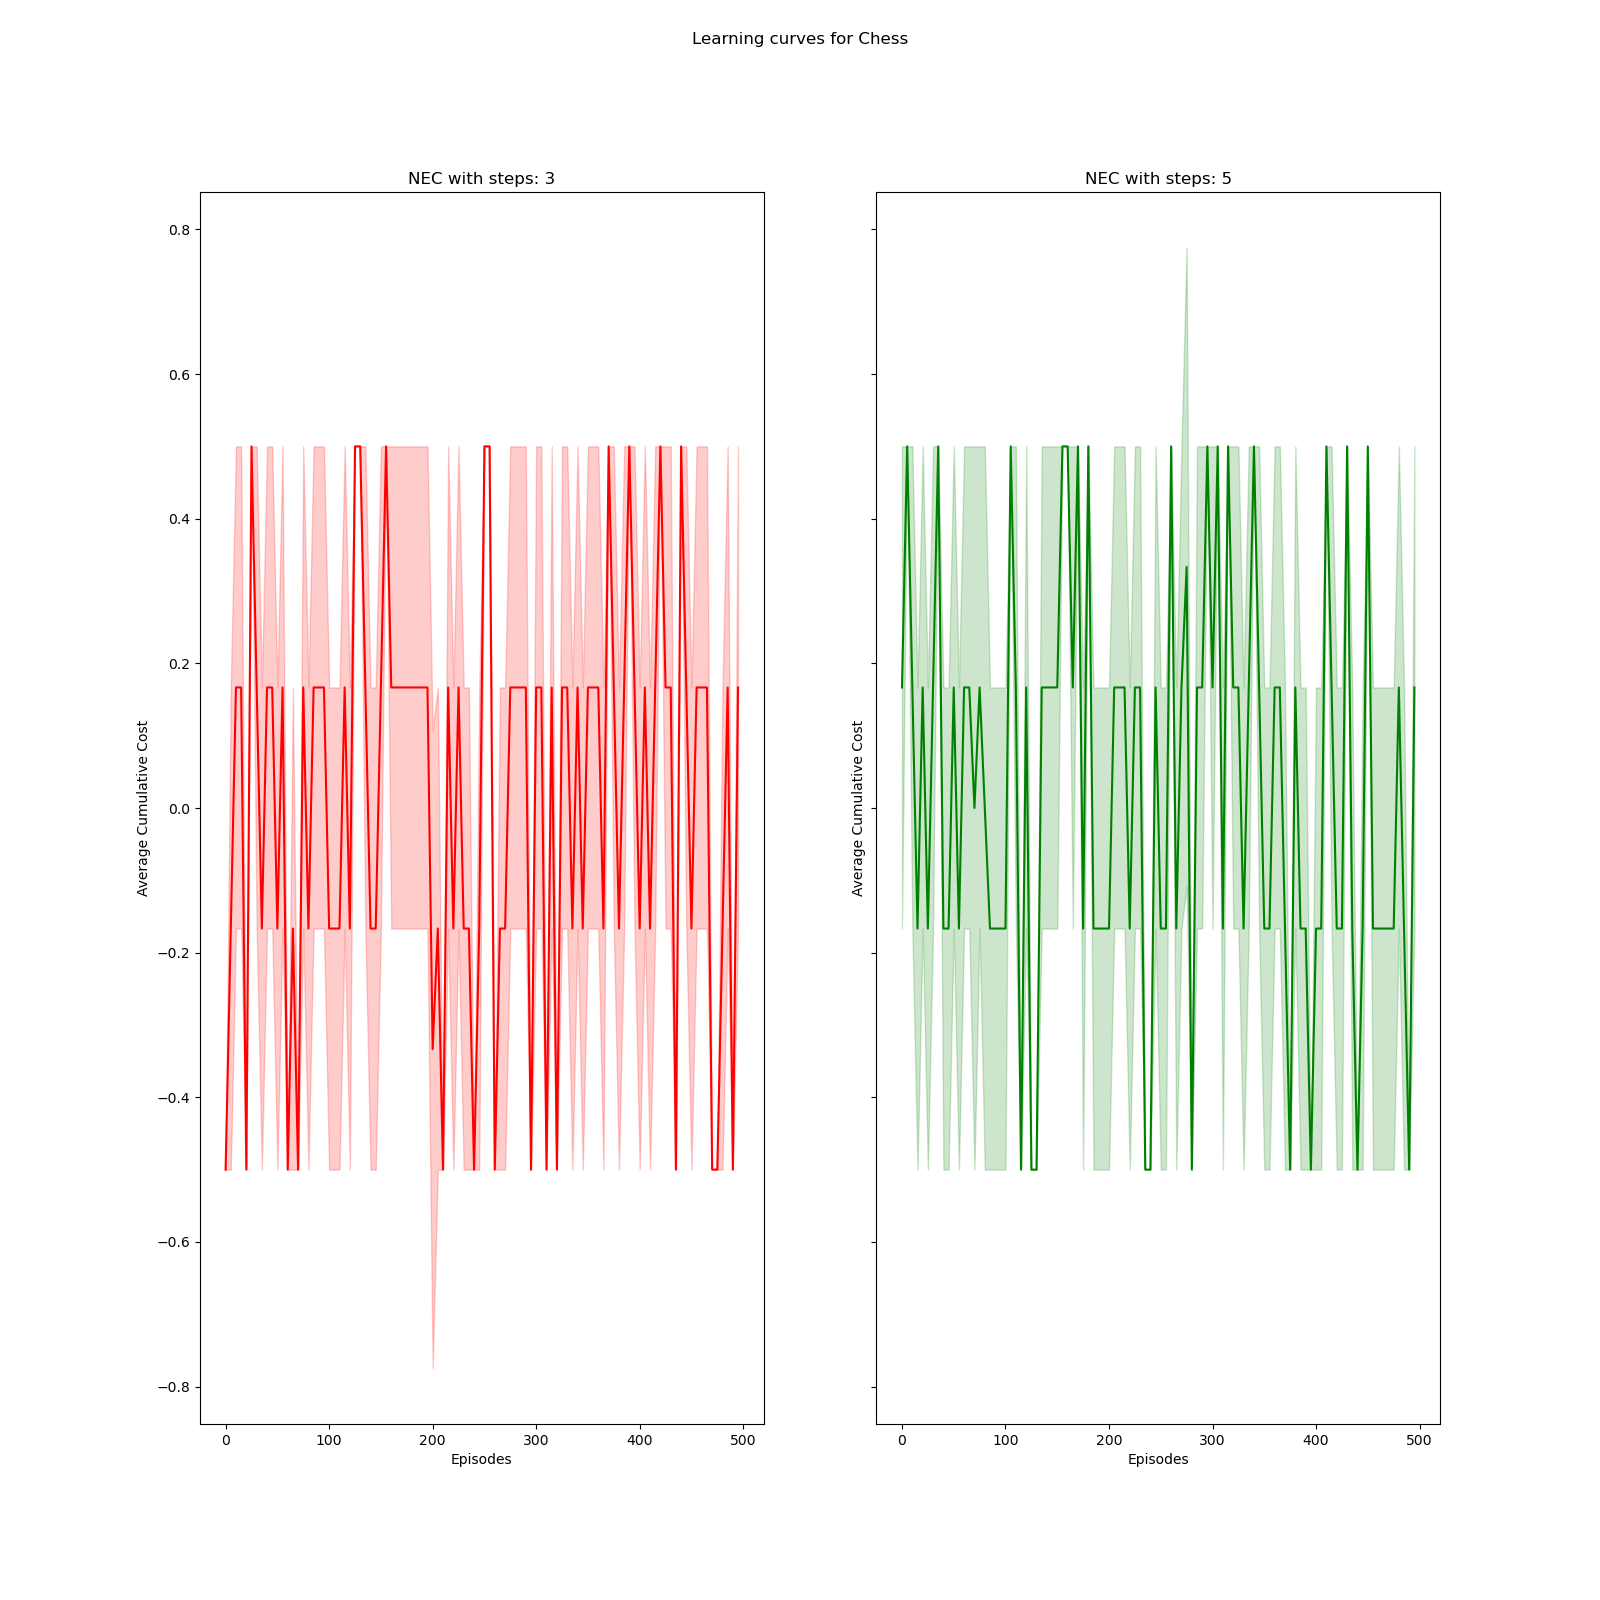
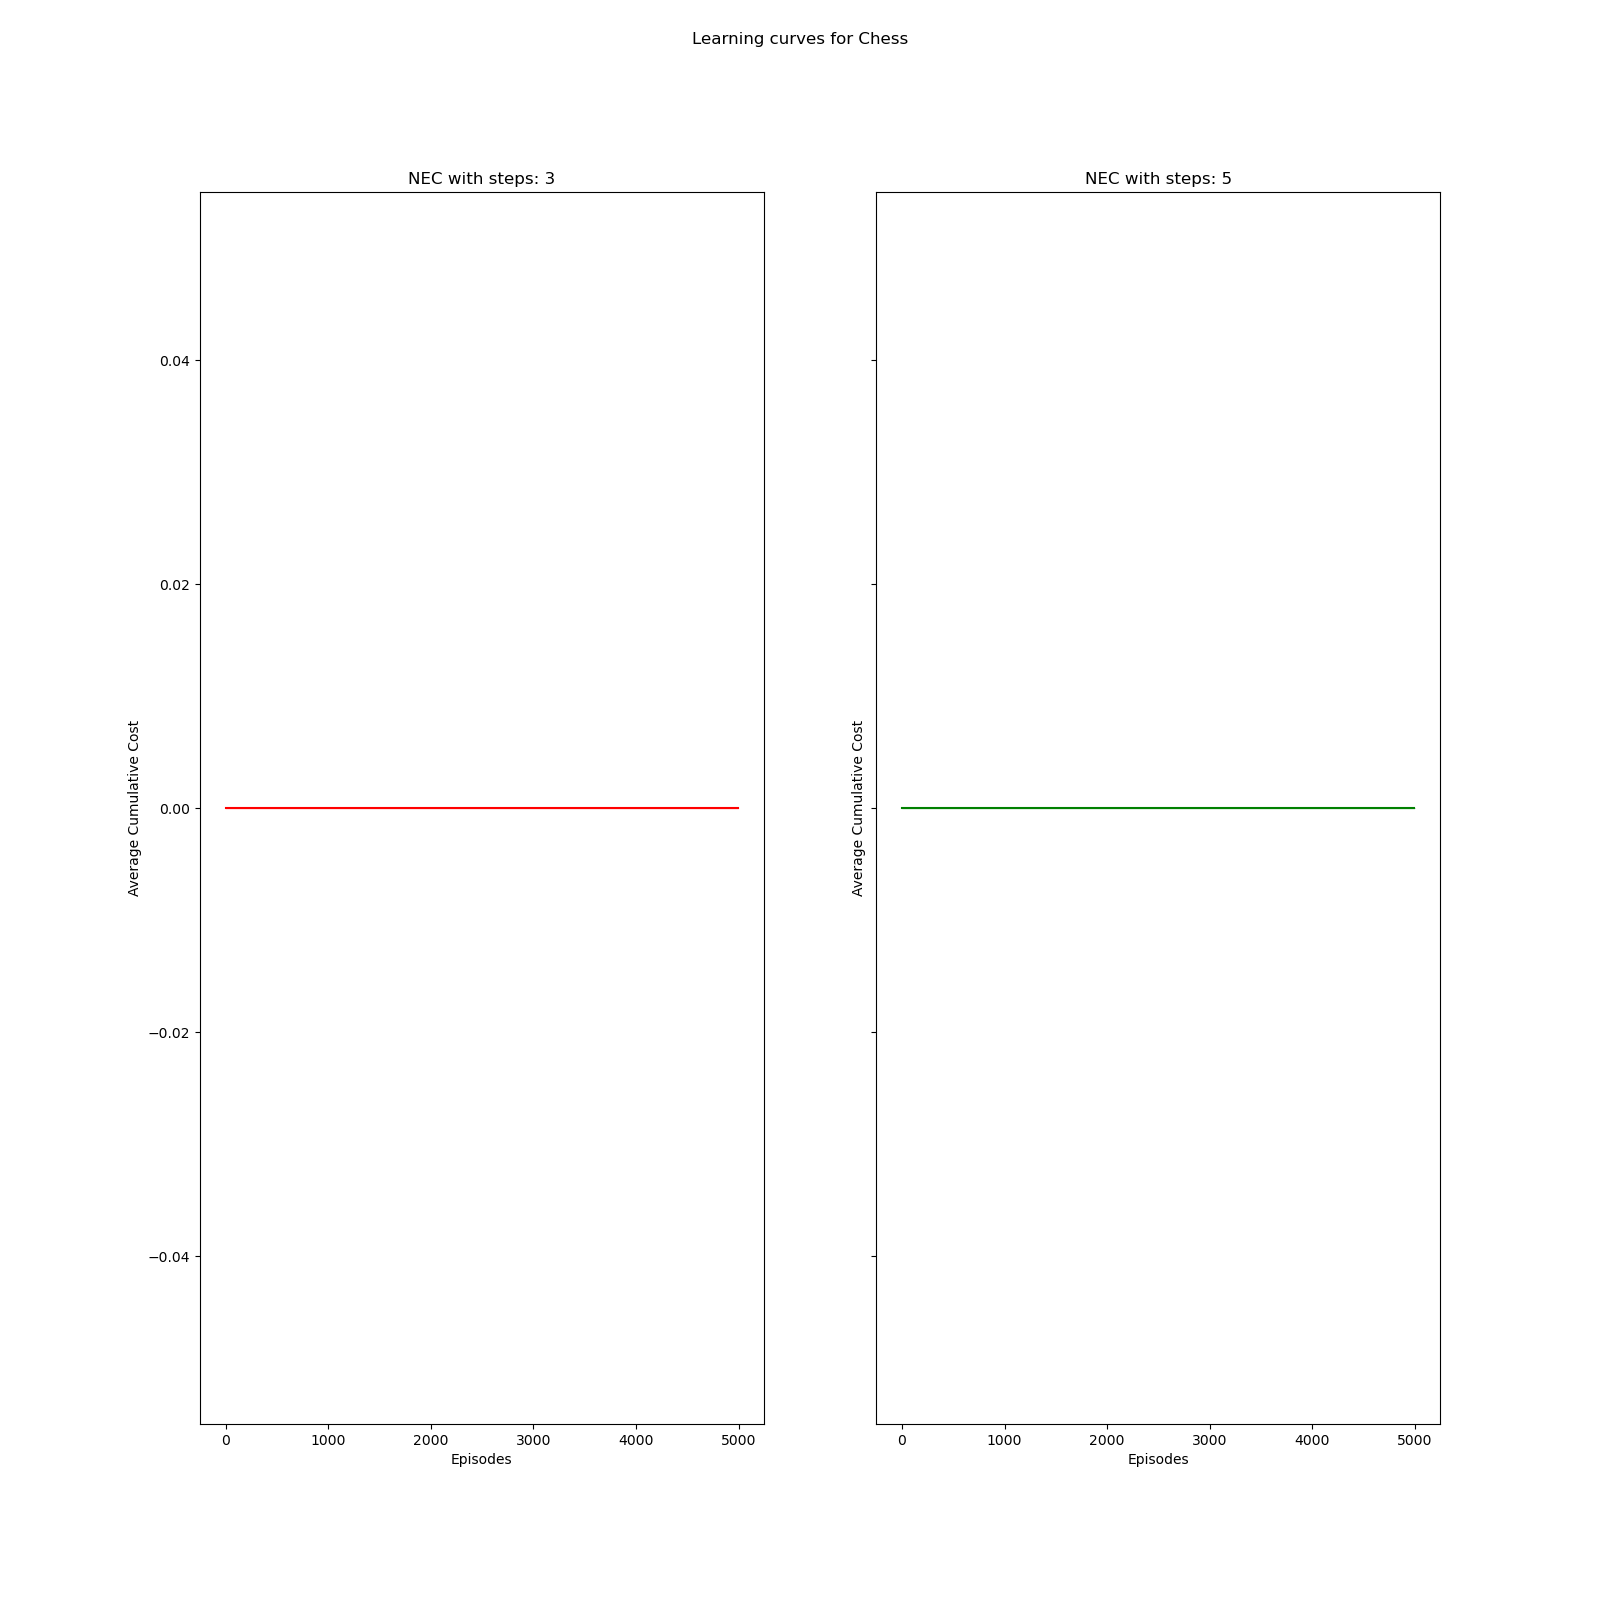
fixed board

diff --git a/NeuralEpisodicControl/NEC.py b/NeuralEpisodicControl/NEC.py
@@ -9,8 +9,8 @@ from tqdm import tqdm
 
 
 class NeuralEpisodicControl:
-    def __init__(self, env, q_network, replay_buffer, optimizer, n_steps=1, gamma=.99, eps_start=.3, eps_end=.05,
-                 eps_decay=200, alpha=1e-3, batch_size=64, loss_fnc=smooth_l1_loss):
+    def __init__(self, env, q_network, replay_buffer, optimizer, n_steps=1, gamma=.99, eps_start=.3, eps_end=.01,
+                 eps_decay=1000, alpha=1e-3, batch_size=64, loss_fnc=smooth_l1_loss):
         self.env = env
         self.q_network = q_network
         self.replay_buffer = replay_buffer
@@ -66,12 +66,12 @@ class NeuralEpisodicControl:
             opponent_starts = random.choice([True, False])
             if opponent_starts:
                 action = random.choice(self.env.get_legal_moves())
-                observation, _, _ = self.env.step(action)
+                observation, _, _ = self.env.step(action, opponent_starts)
 
-            rewards.append(self.play_episode(observation))
+            rewards.append(self.play_episode(observation, opponent_starts))
         return rewards
 
-    def play_episode(self, observation):
+    def play_episode(self, observation, opponent_starts):
         steps = 0
         cumulative_reward = 0
         state = self.q_network(observation)
@@ -79,7 +79,7 @@ class NeuralEpisodicControl:
         while True:
             # Play n steps
             first_state, first_action, state, g_n, n, done, c_r = \
-                self.play_n_steps(state, cumulative_reward)
+                self.play_n_steps(state, cumulative_reward, opponent_starts)
             steps += n
             cumulative_reward += c_r
 
@@ -128,7 +128,7 @@ class NeuralEpisodicControl:
         estimated_q_vals = Variable(torch.cat(g_n))
         return batch_state, action, next_state, estimated_q_vals
 
-    def play_n_steps(self, state, cumulative_reward):
+    def play_n_steps(self, state, cumulative_reward, opponent_starts):
         g_n = 0
         for n in range(self.n_steps):
             # play agent turn
@@ -139,14 +139,14 @@ class NeuralEpisodicControl:
                 first_action = action
                 first_state = state
             # perform the action
-            next_state, reward, done = self.env.step(action)
+            next_state, reward, done = self.env.step(action, not opponent_starts)
 
             # play opponent turn
             if not done:
                 # state = self.q_network(next_state)
                 actions = self.env.get_legal_moves()
-                opponent_action = random.choice(actions)
-                next_state, reward, done = self.env.step(opponent_action)
+                opponent_action = self.select_action(state)
+                next_state, reward, done = self.env.step(opponent_action, opponent_starts)
                 if reward == 1.:
                     print(reward)
                     reward = -reward

diff --git a/NeuralEpisodicControl/Chess.py b/NeuralEpisodicControl/Chess.py
@@ -1,7 +1,6 @@
 import chess
 import torch
 
-
 PIECE_MAP = {
     'k': 0,
     'q': 1,
@@ -17,7 +16,7 @@ class Chess:
         self.board = chess.Board()
         self.pieces_map = PIECE_MAP
 
-    def encode_board(self):
+    def encode_board(self, play_as_white):
         pieces = self.board.epd().split(' ', 1)[0]
         rows = pieces.split('/')
         torch_board = torch.zeros((6, 8, 8))
@@ -32,16 +31,20 @@ class Chess:
                     else:
                         torch_board[self.pieces_map[item]][i][j] = -1
                     j += 1
+        if not play_as_white:
+            torch_board = -torch_board
+            torch_board = torch.flip(torch_board, (-1, 1))
+
         return torch_board
 
-    def step(self, move):
+    def step(self, move, play_as_white):
         self.board.push_san(move)
         reward, done = self.game_over()
-        return self.encode_board(), reward, done
+        return self.encode_board(play_as_white), reward, done
 
     def reset(self):
         self.board = chess.Board()
-        return self.encode_board()
+        return self.encode_board(True)
 
     def get_legal_moves(self):
         return [self.board.san(move) for move in self.board.legal_moves]
@@ -53,9 +56,8 @@ class Chess:
         elif outcome.termination == chess.Termination.CHECKMATE:
             return 1, True
         else:
-            return .5, True
+            return 0, True
 
 
 if __name__ == '__main__':
     pass
-

diff --git a/NeuralEpisodicControl/main.py b/NeuralEpisodicControl/main.py
@@ -1,5 +1,4 @@
 from torch.optim import Adam
-
 from NEC import NeuralEpisodicControl
 import numpy as np
 import matplotlib.pyplot as plt
@@ -66,7 +65,7 @@ if __name__ == '__main__':
     test_models(
         env_name='Chess',
         env=Chess(),
-        n_steps=[1,3,5],
-        n_episodes=100,
-        n_experiments=5
+        n_steps=[3,5],
+        n_episodes=5000,
+        n_experiments=2
     )
